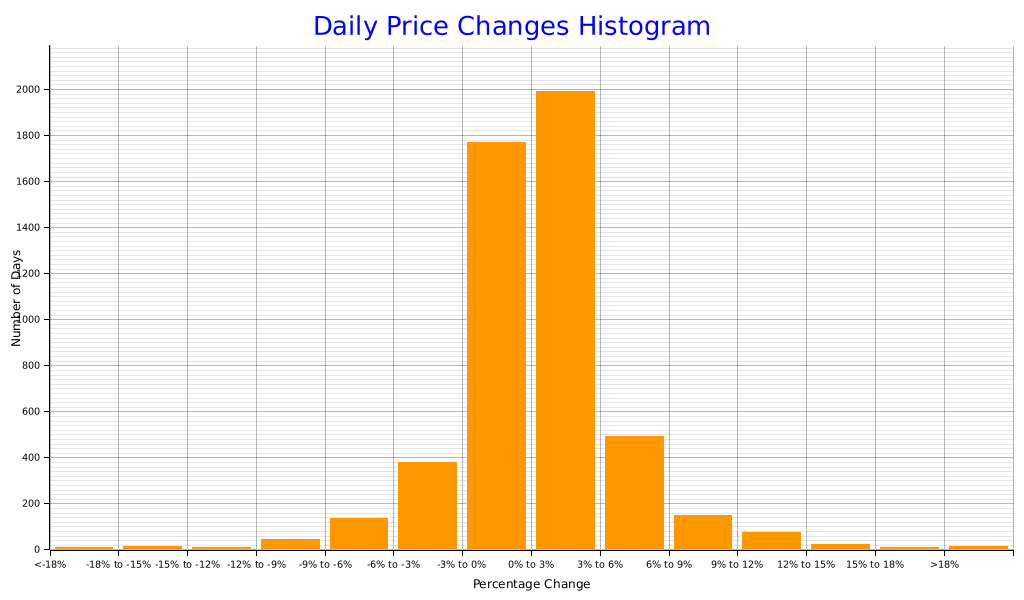
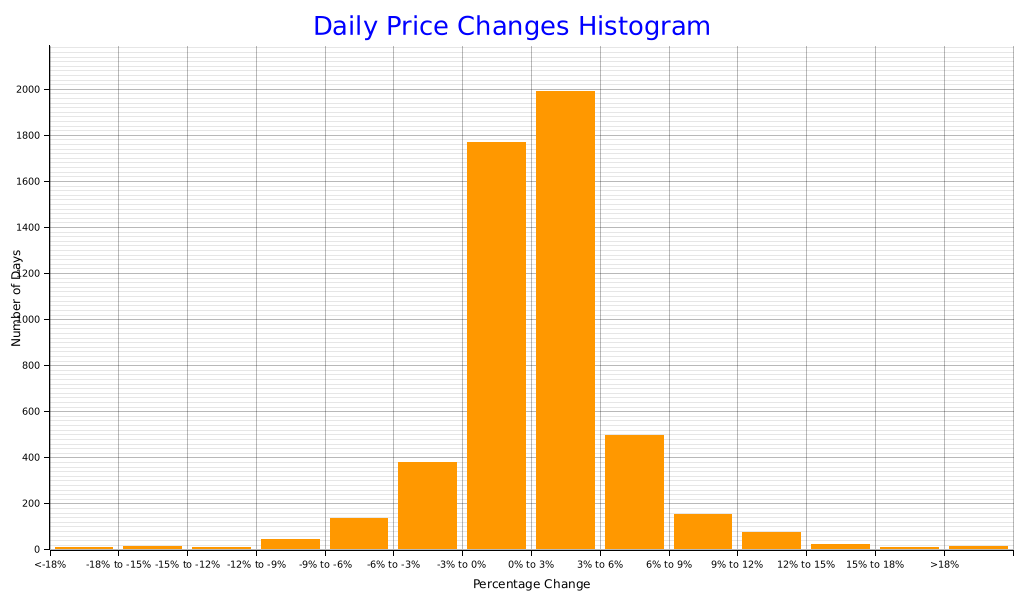
deploy: fbebbab4ab64577eb9c05b16167055638fc15f9a

diff --git a/index.html b/index.html
@@ -34,7 +34,7 @@
           <td>126,198.07</td>
           <td>74,436.67</td>
           <td></td>
-          <td>18,633,990,340,608.0</td>
+          <td>18,634,818,715,648.0</td>
         </tr>
         <tr>
           <td class='yearly-summary-year'>2024</td>
@@ -186,11 +186,11 @@
         </tr>
         <tr>
           <td>-3% to 0%</td>
-          <td>1769</td>
+          <td>1770</td>
         </tr>
         <tr>
           <td>0% to 3%</td>
-          <td>1990</td>
+          <td>1989</td>
         </tr>
         <tr>
           <td>3% to 6%</td>
@@ -227,7 +227,7 @@
     <br><br>
     <a href='https://github.com/bitcoin-tools/btracker'>Link to the report codebase</a>
     <br><br>
-    This report was last updated at 2025-12-12 07:01:37.424577294 UTC.
+    This report was last updated at 2025-12-12 07:35:27.858459950 UTC.
     <br><br>
     <div class='scrollable-table'>
       <table>
@@ -251,12 +251,12 @@
             <td>92,522.48</td>
             <td>92,699.53</td>
             <td>91,506.99</td>
-            <td>92,528.64</td>
-            <td class='wma-column'>56,195.05</td>
-            <td>35.79 (0.06 %)</td>
-            <td>50,120.71 (118.1 %)</td>
+            <td>92,484.10</td>
+            <td class='wma-column'>56,195.01</td>
+            <td>35.75 (0.06 %)</td>
+            <td>50,076.17 (118.0 %)</td>
             <td>1,192.53 (1.2 %)</td>
-            <td>17.31 (0.0 %)</td>
+            <td>-27.22 (0.0 %)</td>
           </tr>
           <tr>
             <td>2025-12-11</td>
